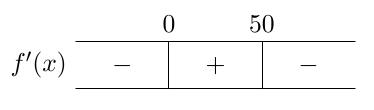
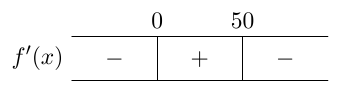
Muoks

diff --git a/kurssit/maa6/luku5/index.html b/kurssit/maa6/luku5/index.html
@@ -262,7 +262,9 @@ topnav: maa6
                 <br>
                 <img src="/kurssit/maa6/kuvat/kuva55.png" max-width: 100%; width: auto; height: auto;/>
                 <br>
-                Derivaattafunktion merkkikaaviosta nähdään, että aiemmat funktion $f$ kuvaajan perusteella tehdyt päätelmät ovat osittain vääriä. Funktio $f$ on kyllä aidosti vähenevä, kun $x \leq 0$, mutta se on aidosti vähenevä myös silloin, kun $x \geq 50$, ja aidosti kasvava välillä $[0,50]$.
+                Derivaattafunktion merkkikaaviosta nähdään, että aiemmat funktion $f$ kuvaajan perusteella tehdyt päätelmät ovat osittain vääriä. Funktio $f$ on kyllä aidosti vähenevä, kun $x \leq 0$, mutta se on aidosti vähenevä myös silloin, kun $x \geq 50$, ja aidosti kasvava välillä $[0,50]$. Nämä päätelmät voidaan ilmaista myös niin sanotun kulkukaavion avulla:
+                <br>
+                <img src="/kurssit/maa6/kuvat/kuva55.png" max-width: 100%; width: auto; height: auto;/>
             </p>
             
             <div class="close-section">
